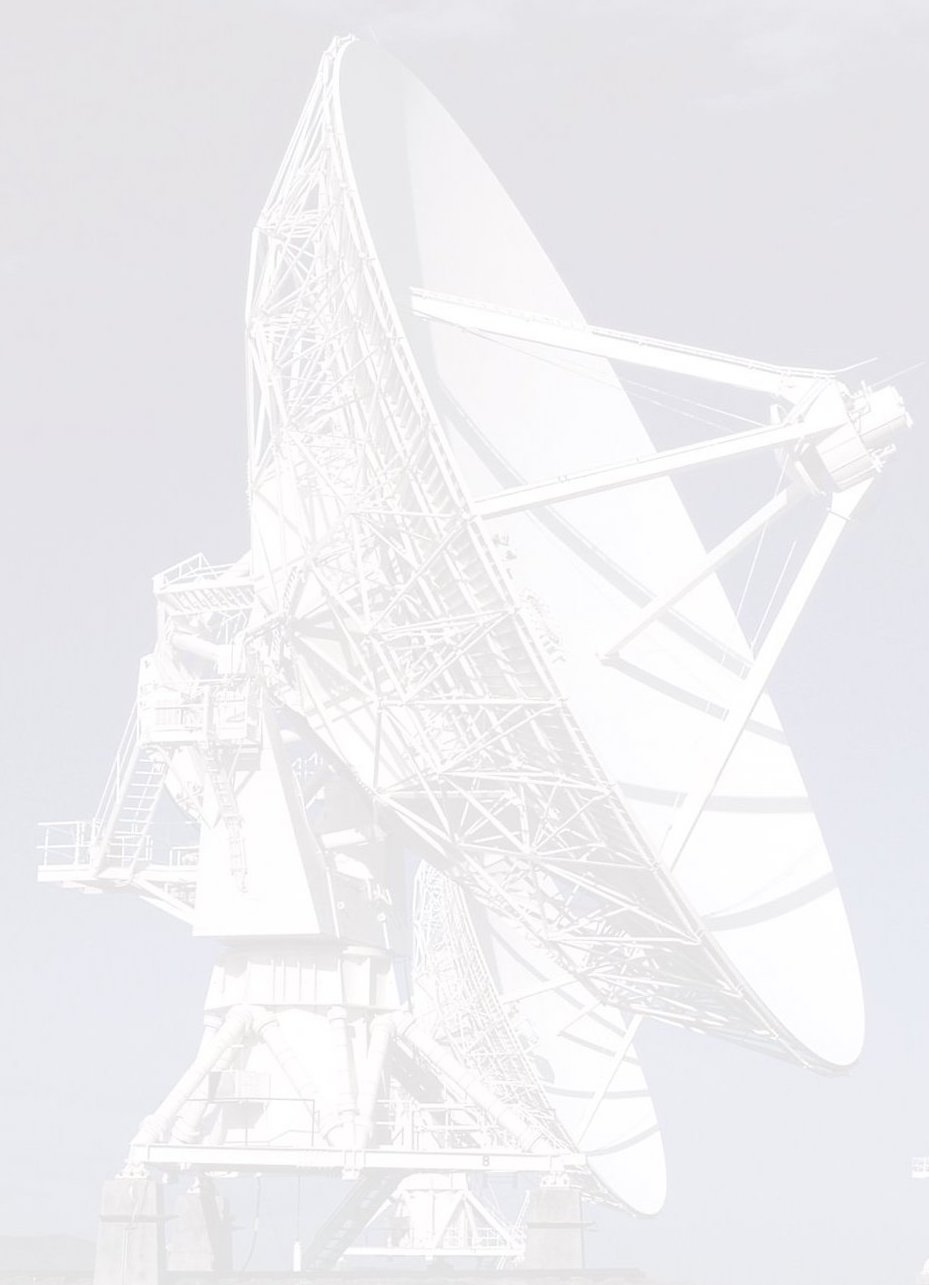
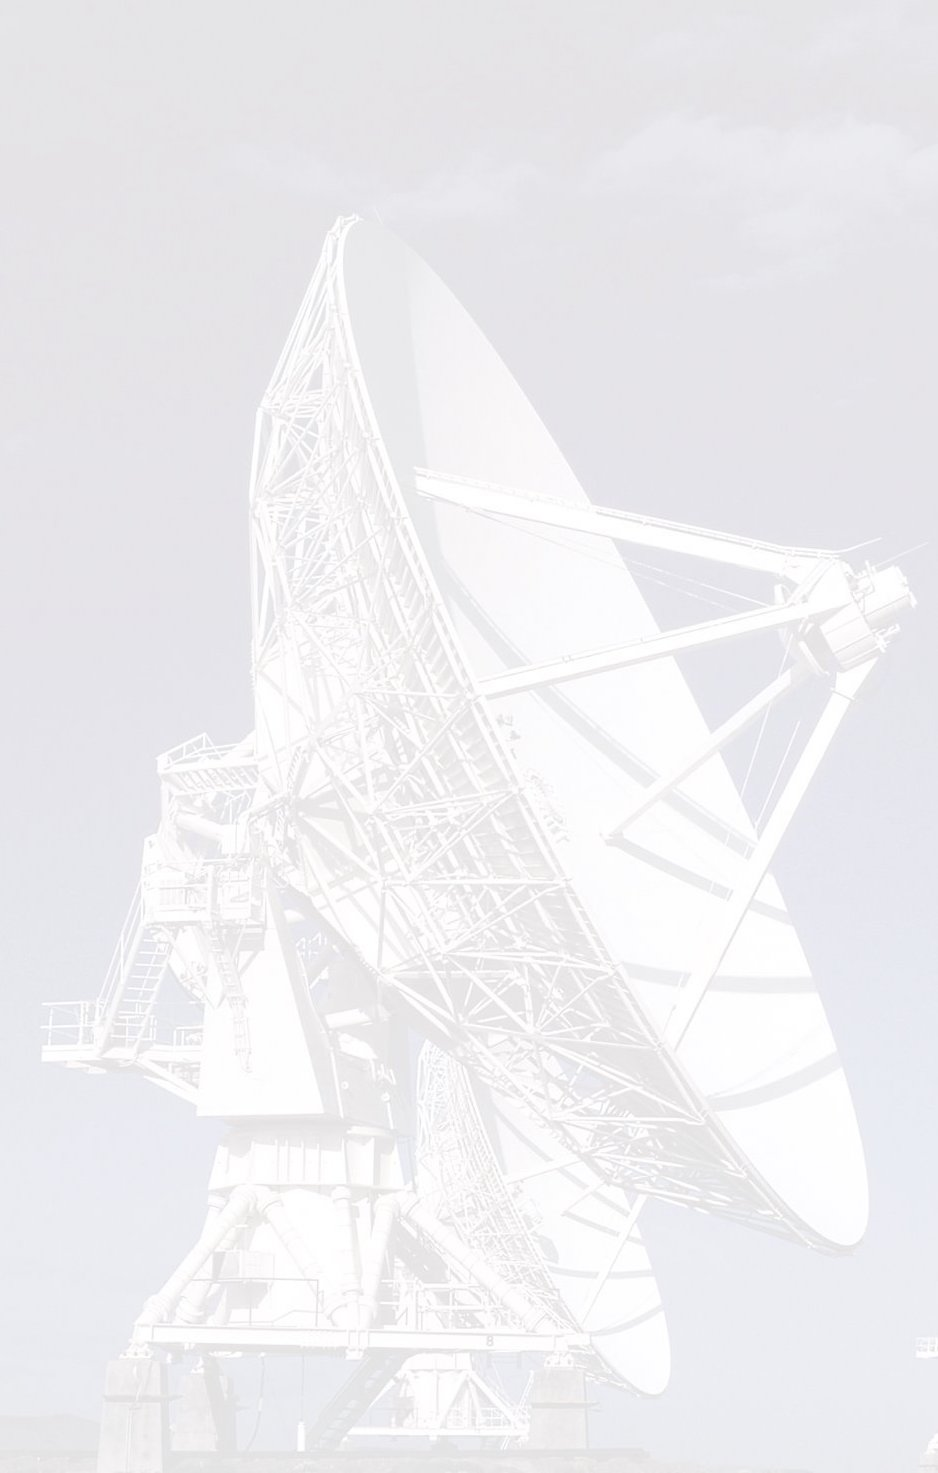
Change background on mobile correctly try 4

diff --git a/papi/style.css b/papi/style.css
@@ -1,7 +1,7 @@
 
 body{
     background-image: url("assets/images/6.jpg");
-    background-size:cover;
+    background-size: 100% 100%;
   background-repeat: no-repeat;
   background-attachment: fixed;
   background-position: bottom; 
@@ -9,10 +9,16 @@ body{
 
 .bg_mobile{
     background-image: url("assets/images/7.jpg");
-    background-size:cover;
+     /* The image used */
+
+
+  /* Full height */
+  height: 100%; 
+
+  /* Center and scale the image nicely */
+  background-position: center;
   background-repeat: no-repeat;
-  background-attachment: fixed;
-  background-position: bottom; 
+  background-size: cover;
 }
 
 .box{
